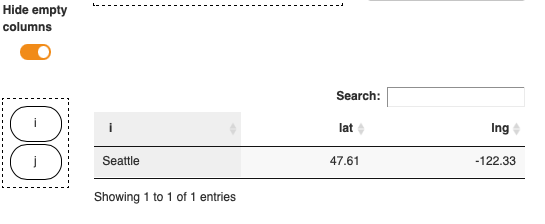
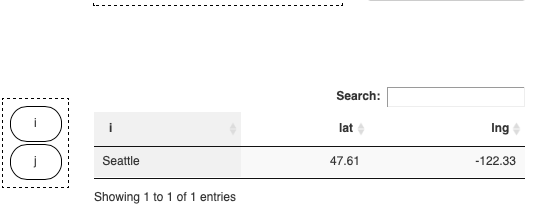
[MIRO Pivot] Update Config Mode and docs
The changes to MIRO Pivot broke the enableHideEmptyCols switch in the
Configuration Mode.
Also some images and the documentation were updated

Changed region(s): [[0.0312, 0.1875, 0.0936, 0.2812], [0.0, 0.0938, 0.0936, 0.1562], [0.0, 0.0, 0.1248, 0.0938]]

diff --git a/doc/charts.html b/doc/charts.html
@@ -1729,7 +1729,17 @@ dowVSindex(d,'index fund')     = fund(d);
                       with the MIRO Pivot Table, you might not want to see
                       columns containing only <kbd>-</kbd>. Therefore, the MIRO
                       Pivot Table has the options to hide these
-                      <i> empty</i> columns:
+                      <i> empty</i> columns. The button to hide/show empty
+                      columns is located in the settings
+                      <img
+                        class="img-fluid"
+                        src="assets/images/pivot-settings-btn.png"
+                        width="25"
+                        height="25"
+                        align="middle"
+                        alt="MIRO Pivot settings button"
+                      />
+                      dialog.
                     </p>
                     <div class="section-block">
                       <img

diff --git a/doc/release.html b/doc/release.html
@@ -98,6 +98,14 @@
                     (xxxx-xx-xx)
                   </div>
                   <div class="section-block">
+                    <h3>Minor new features and improvements</h3>
+                    <ul>
+                      <li>
+                        <a href="./charts.html#pivot-chart">MIRO Pivot Tables</a
+                        >: Add option to show table summary (sum, mean, count,
+                        ... for rows/columns).
+                      </li>
+                    </ul>
                     <h3>Bug fixes</h3>
                     <ul>
                       <li>
